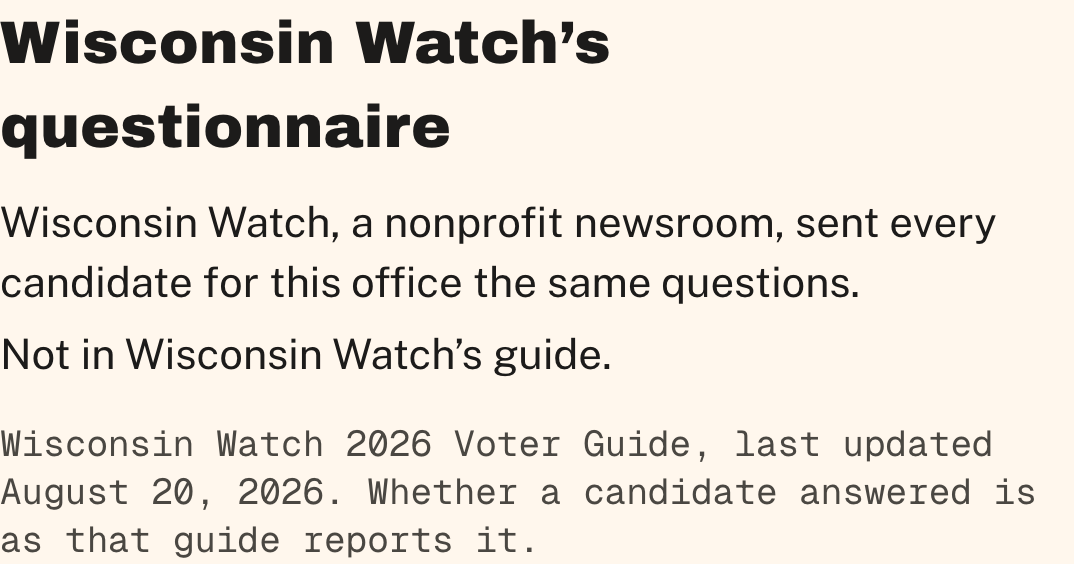
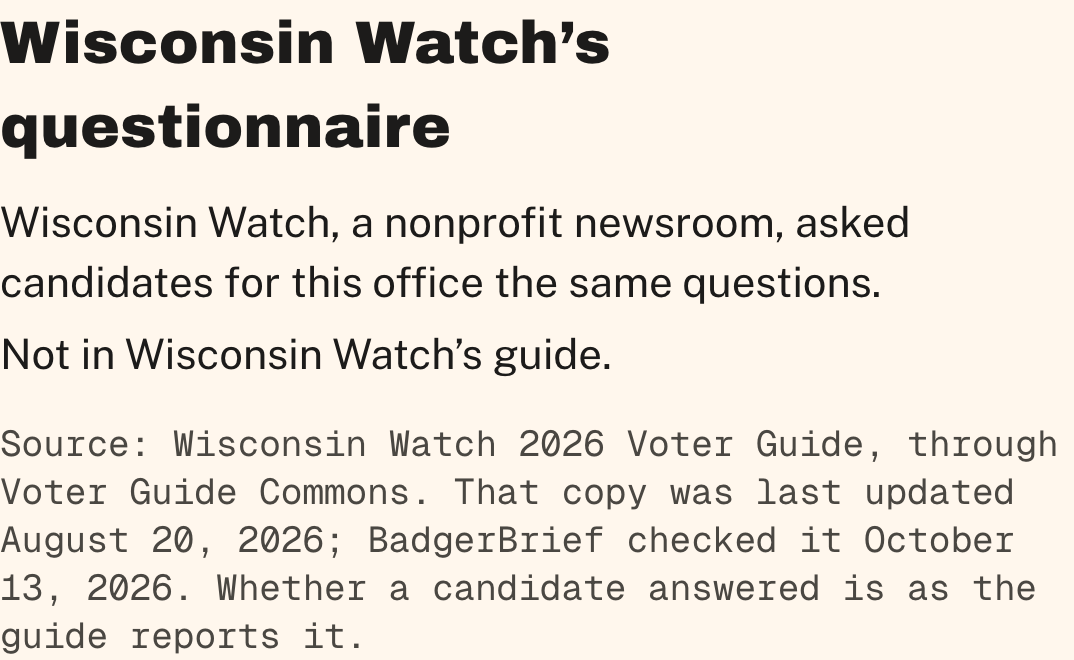
fix: every questionnaire statement links its source, and the matcher fails closed
From the branch review, each reproduced by a test first:
- A candidate who did not answer now gets a link to their Wisconsin Watch
  page, so the statement has a source and both kinds of row weigh the same.
- The page no longer states as its own fact that every candidate was sent
  the questions; that is Wisconsin Watch's account.
- The credit names Voter Guide Commons and the date BadgerBrief checked.
- The section is titled 'Wisconsin Watch's questionnaire': in 13 races
  nobody answered.
- The matcher requires the first name to agree as well as the surname, never
  links two candidates to one page, and stops on an unreadable entry or an
  empty race instead of marking candidates 'not in the guide'.

diff --git a/src/components/guide/questionnaire.tsx b/src/components/guide/questionnaire.tsx
@@ -5,8 +5,10 @@ import { WISCONSIN_WATCH, questionnaireStatus, type QuestionnaireStatus } from "
  * Whether each candidate answered Wisconsin Watch's 2026 questionnaire, with a
  * link to the answers. Server components: they read the checked-in link list.
  *
- * Every candidate gets one row of the same weight. "Did not answer" is a plain
- * statement. Nothing here says why, and nothing compares candidates.
+ * Every candidate gets one row of the same weight, and a link to the page that
+ * backs the statement. "Did not answer" is a plain statement. Nothing here
+ * says why, and nothing compares candidates. That every candidate was sent the
+ * questions is Wisconsin Watch's account, so the page does not assert it.
  */
 
 type OnBallot = {
@@ -25,12 +27,10 @@ const STATUS = "mt-1 text-sm";
 /** A link to Wisconsin Watch, tagged so the newsroom can count readers we send. */
 export const guideLink = (url: string) => `${url}?utm_source=badgerbrief&utm_medium=referral`;
 
-const guideUpdated = new Date(`${WISCONSIN_WATCH.guideUpdated}T12:00:00Z`).toLocaleDateString("en-US", {
-  month: "long",
-  day: "numeric",
-  year: "numeric",
-  timeZone: "UTC",
-});
+const longDate = (day: string) =>
+  new Date(`${day.slice(0, 10)}T12:00:00Z`).toLocaleDateString("en-US", { month: "long", day: "numeric", year: "numeric", timeZone: "UTC" });
+const guideUpdated = longDate(WISCONSIN_WATCH.guideUpdated);
+const checked = longDate(WISCONSIN_WATCH.retrievedAt);
 
 /** One row per candidate, in the order given. Empty when their guide does not cover the race. */
 export function questionnaireRows(raceId: string, candidates: readonly OnBallot[]): QuestionnaireRow[] {
@@ -52,9 +52,20 @@ function Status({ row }: { row: QuestionnaireRow }) {
       </p>
     );
   }
+  if (status.status === "did-not-answer") {
+    // The claim gets the same thing an answer gets: a link to the page that shows it.
+    return (
+      <p className={STATUS} data-status="did-not-answer">
+        Did not answer the questionnaire.{" "}
+        <a href={guideLink(status.url)} target="_blank" rel="noopener noreferrer" className={LINK}>
+          See {row.name}’s page on Wisconsin Watch
+        </a>
+      </p>
+    );
+  }
   return (
-    <p className={STATUS} data-status={status.status}>
-      {status.status === "did-not-answer" ? "Did not answer the questionnaire." : "Not in Wisconsin Watch’s guide."}
+    <p className={STATUS} data-status="not-in-guide">
+      Not in Wisconsin Watch’s guide.
     </p>
   );
 }
@@ -62,7 +73,8 @@ function Status({ row }: { row: QuestionnaireRow }) {
 function Credit() {
   return (
     <p className="mt-3 font-mono text-xs text-muted-foreground">
-      Wisconsin Watch 2026 Voter Guide, last updated {guideUpdated}. Whether a candidate answered is as that guide reports it.
+      Source: Wisconsin Watch 2026 Voter Guide, through Voter Guide Commons. That copy was last updated {guideUpdated};
+      BadgerBrief checked it {checked}. Whether a candidate answered is as the guide reports it.
     </p>
   );
 }
@@ -72,12 +84,12 @@ export function RaceQuestionnaire({ raceId, candidates }: { raceId: string; cand
   if (rows.length === 0) return null;
   return (
     <section id="questionnaire" className="mt-8 scroll-mt-16">
-      <h2 className="font-display text-2xl">In their own words</h2>
+      <h2 className="font-display text-2xl">Wisconsin Watch’s questionnaire</h2>
       <p className="mt-2 max-w-2xl text-sm">
         <a href={guideLink(WISCONSIN_WATCH.url)} target="_blank" rel="noopener noreferrer" className={INLINE_LINK}>
           Wisconsin Watch
         </a>
-        , a nonprofit newsroom, sent every candidate for this office the same questions. The answers are the candidates’
+        , a nonprofit newsroom, asked candidates for this office the same questions. The answers are the candidates’
         own words, published on its site.
       </p>
       <ul className="mt-3 max-w-2xl border-t-2 border-border">
@@ -103,7 +115,7 @@ export function CandidateQuestionnaire({ raceId, candidate }: { raceId: string; 
     <section id="questionnaire" className="mt-6 scroll-mt-16">
       <h2 className="font-display text-xl">Wisconsin Watch’s questionnaire</h2>
       <p className="mt-2 max-w-2xl text-sm">
-        Wisconsin Watch, a nonprofit newsroom, sent every candidate for this office the same questions.
+        Wisconsin Watch, a nonprofit newsroom, asked candidates for this office the same questions.
       </p>
       <Status row={row} />
       <Credit />

diff --git a/src/components/guide/questionnaire.test.tsx b/src/components/guide/questionnaire.test.tsx
@@ -52,17 +52,35 @@ describe("RaceQuestionnaire", () => {
     expect(html).toContain('href="https://voterguide26.wisconsinwatch.org/candidate/s-ripley1/?utm_source=badgerbrief&amp;utm_medium=referral"');
   });
 
-  test("states plainly that a candidate did not answer, with no link and no comment", () => {
+  test("states plainly that a candidate did not answer, with no comment, and links the page that shows it", () => {
     expect(html).toContain("John Jagler");
     expect(html).toContain("Did not answer the questionnaire.");
-    expect(html).not.toContain("j-jagler1");
+    expect(html).toContain("See John Jagler’s page on Wisconsin Watch");
+    expect(html).toContain('href="https://voterguide26.wisconsinwatch.org/candidate/j-jagler1/?utm_source=badgerbrief&amp;utm_medium=referral"');
     expect(html).not.toMatch(/declin|refus|ignor|fail/i);
+  });
+
+  test("gives every row one link of its own, whether or not the candidate answered", () => {
+    const rows = [...html.matchAll(/<li[^>]*>(.*?)<\/li>/g)].map((m) => (m[1].match(/<a /g) ?? []).length);
+    expect(rows).toEqual([1, 1]);
+  });
+
+  test("does not claim, as its own fact, that every candidate was sent the questions", () => {
+    expect(html).not.toMatch(/every candidate/i);
+    expect(html).toContain("asked candidates for this office the same questions");
+  });
+
+  test("is titled for what it is, since in some races nobody answered", () => {
+    expect(html).toContain("Wisconsin Watch’s questionnaire</h2>");
+    expect(html).not.toContain("In their own words");
   });
 
   test("credits Wisconsin Watch and says the words are the candidates' own", () => {
     expect(html).toContain("Wisconsin Watch");
     expect(html).toContain("the candidates’ own words");
+    expect(html).toContain("through Voter Guide Commons");
     expect(html).toContain("last updated August 20, 2026");
+    expect(html).toMatch(/BadgerBrief checked it October \d{1,2}, 2026/);
   });
 
   test("gives both statuses the same text style", () => {

diff --git a/src/app/races/[slug]/page.tsx b/src/app/races/[slug]/page.tsx
@@ -99,7 +99,7 @@ export default async function RacePage({ params }: Props) {
 
   const navSections: NavSection[] = [
     ...(onBallot.length > 0 ? [{ id: "candidates", label: "On the ballot", count: onBallot.length }] : []),
-    ...(hasQuestionnaire ? [{ id: "questionnaire", label: "In their words" }] : []),
+    ...(hasQuestionnaire ? [{ id: "questionnaire", label: "Questionnaire" }] : []),
     ...(raceFinance.length > 0 ? [{ id: "money", label: "The money" }] : []),
     ...(adMoney && adMoney.candidates.length > 0 ? [{ id: "ad-money", label: "Ad money" }] : []),
     ...(tvAds.length > 0 ? [{ id: "tv-ads", label: "TV ads" }] : []),

diff --git a/docs/evidence/wisconsin-watch/links-report.md b/docs/evidence/wisconsin-watch/links-report.md
@@ -1,6 +1,6 @@
 # Wisconsin Watch questionnaire: link report
 
-Built 2026-10-13T14:11:03Z from https://voterguidecommons.org/mcp. Their guide says it was last updated 2026-08-20.
+Built 2026-10-13T14:27:49Z from https://voterguidecommons.org/mcp. Their guide says it was last updated 2026-08-20.
 
 129 races. 262 candidates on the certified ballot: 261 linked to a page (166 answered, 95 did not), 1 with no page.
 
